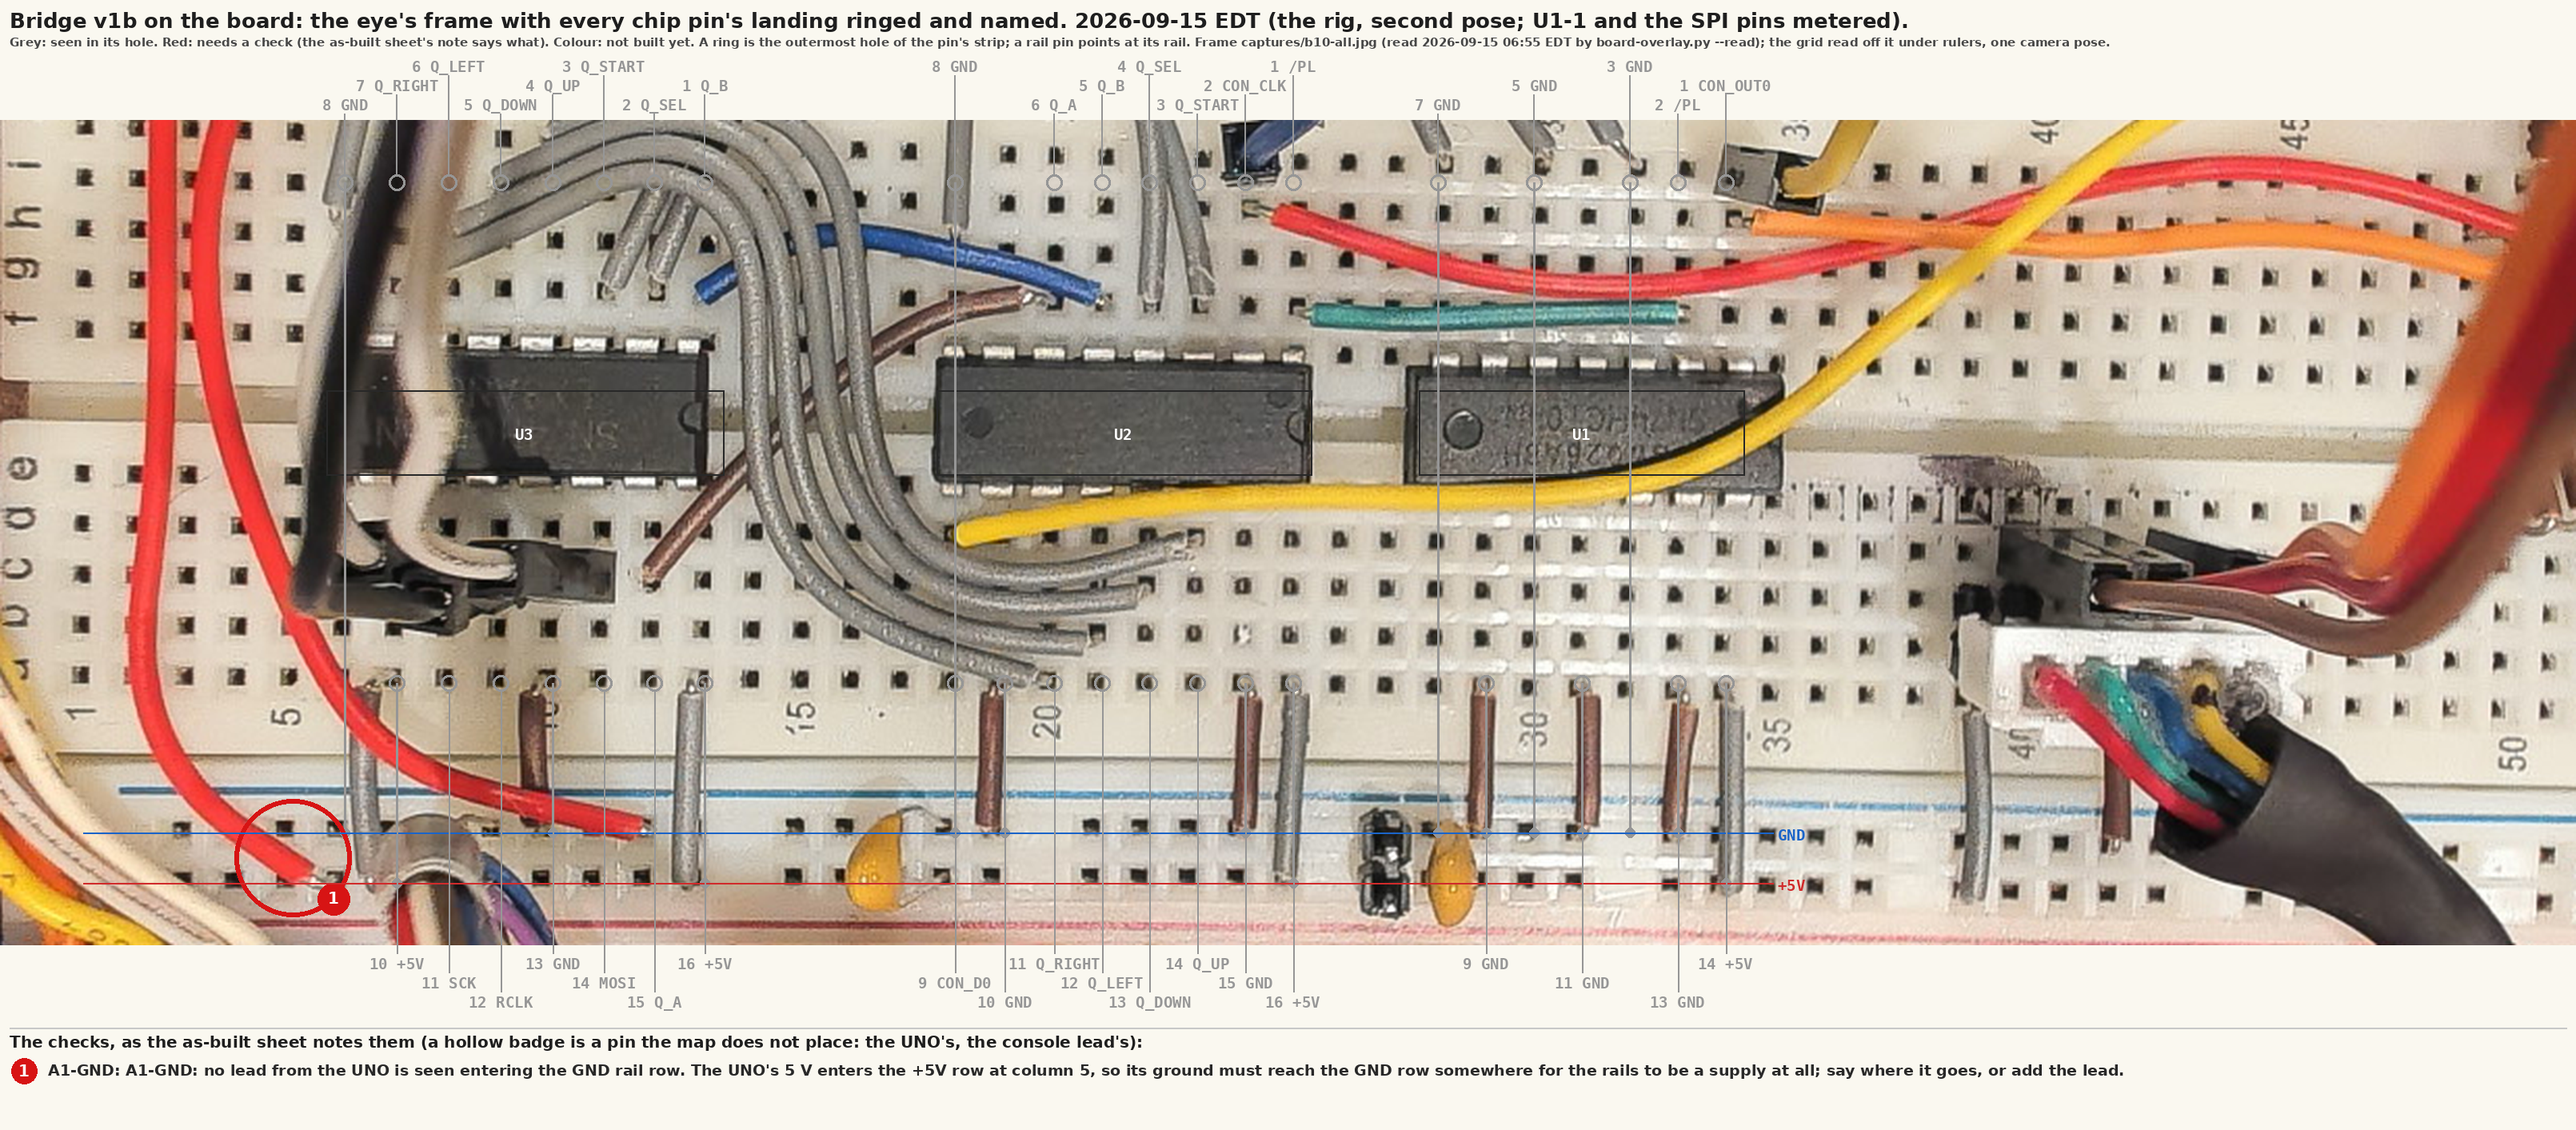
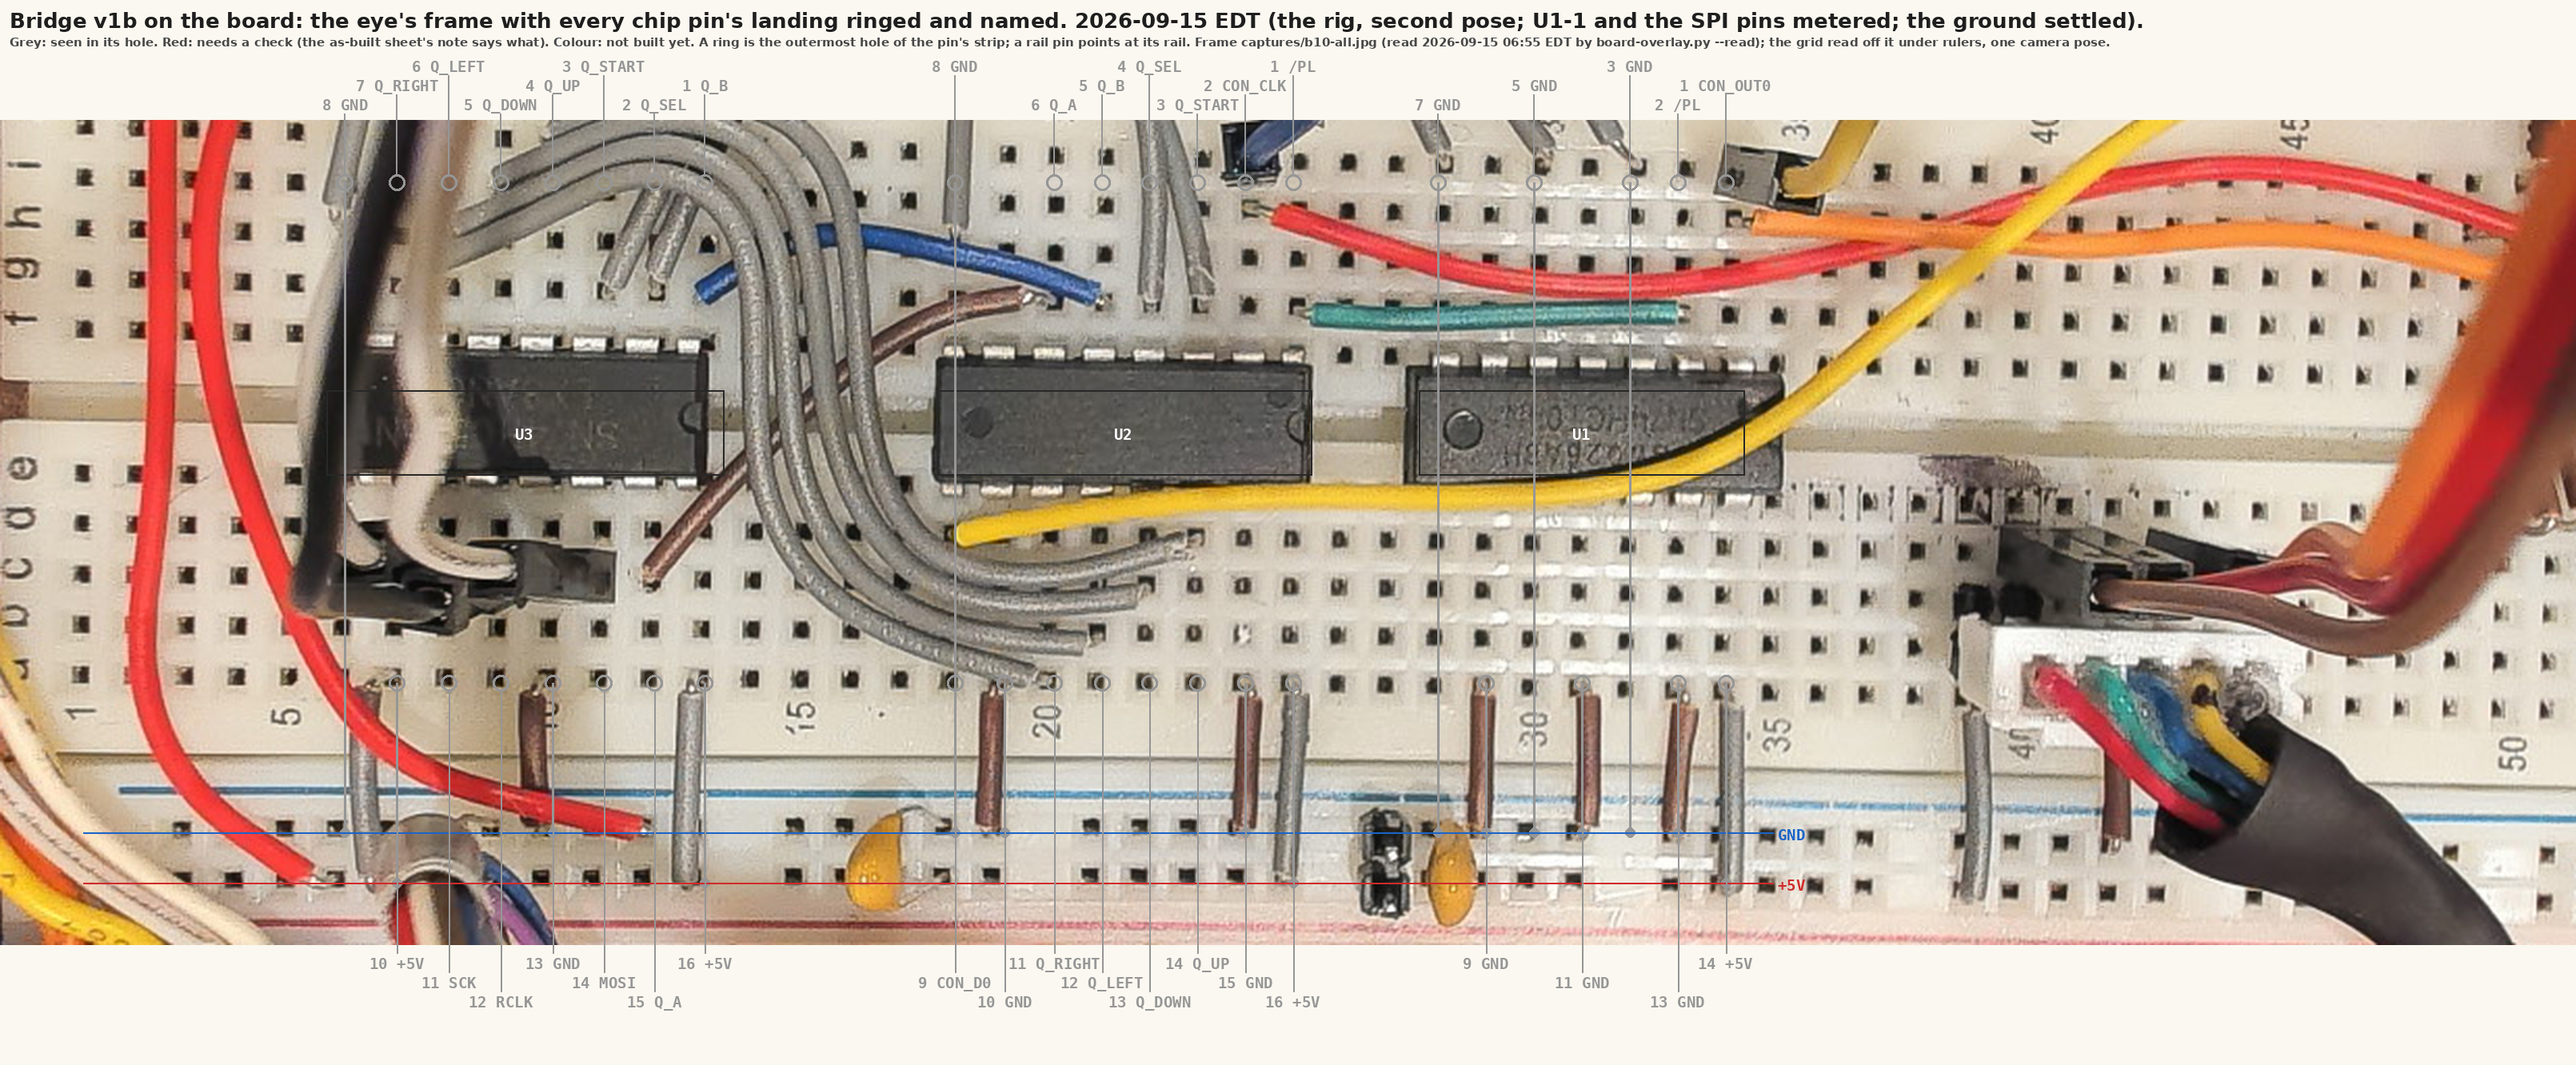
The ground settled: through the UNO's USB, as designed; no checks left on the right board
Claude-Session: https://claude.ai/code/session_01BdJ3NUxHSKQzEFUn9ViLv2

diff --git a/docs/procedures/2026-09-13-breadboard-qa.md b/docs/procedures/2026-09-13-breadboard-qa.md
@@ -347,3 +347,16 @@ the previous look by sensor noise only, which is the point: the eye
 reads the same housings it could not settle, and the meter settles
 them. Recorded as MEASURED on the sheet, rev I. One check remains,
 the UNO's ground into the GND rail row.
+
+## The ground, settled: every pin of the right board done
+
+The UNO's ground reaches the rails through its USB cable from the Pi
+(the user, 2026-09-15), which is what the design says and the reason
+no ground lead is on the board: the UNO's 5 V and ground power all
+three boards' rails; the console's port (J1-1) and the pad (J2-1) are
+on that ground and the console's own 5 V (port pin 5) is not carried,
+so the two supplies meet only at ground; the power and reset breakout
+touches the console only through the PC817's LED and the relay's
+contact, with no wire from the Pi's ground to the bridge or the
+console. The as-built sheet has no checks left on the chip pins: 47
+pins done.
